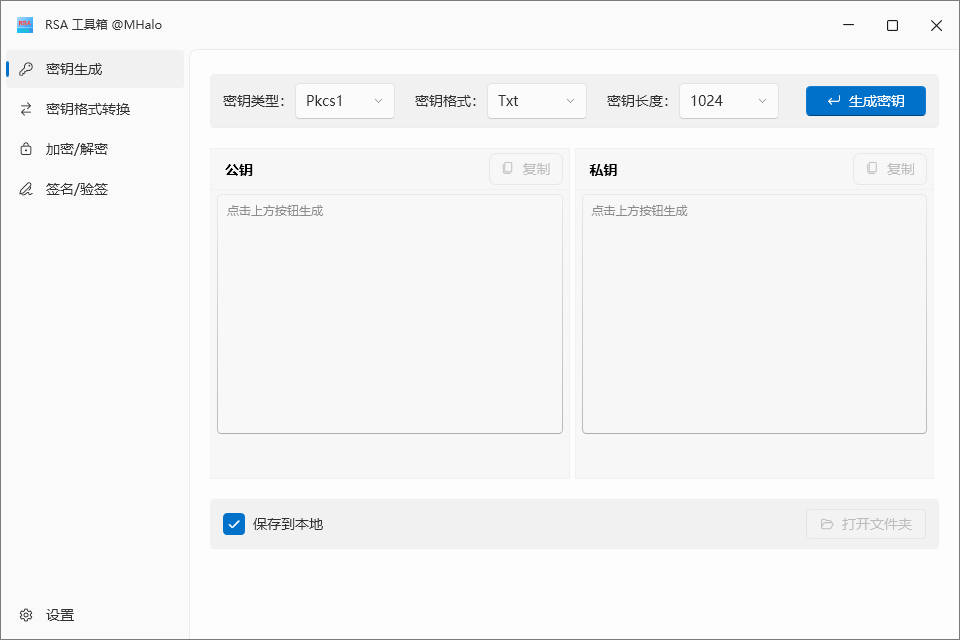
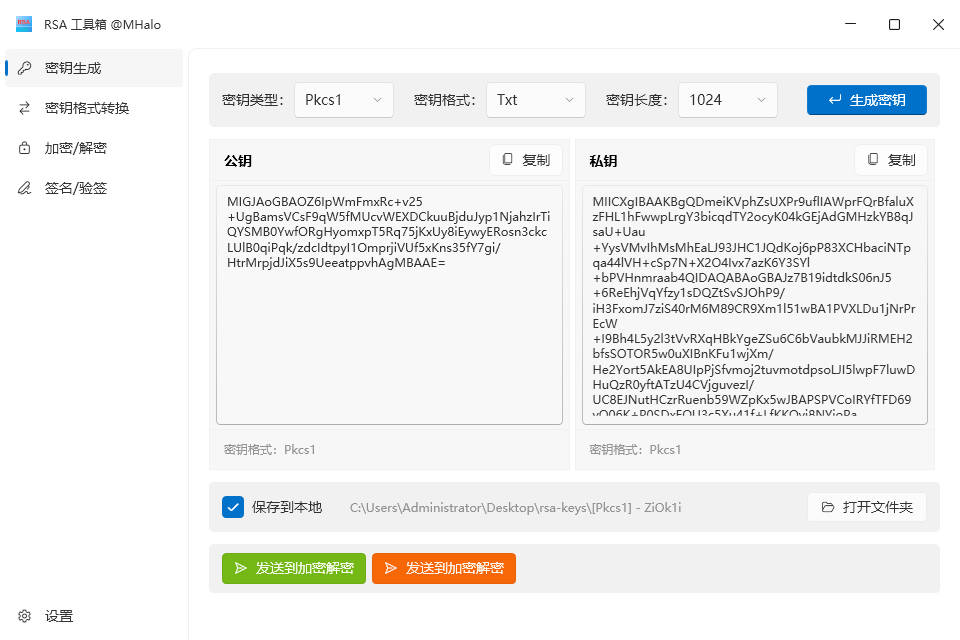
RSA密钥生成界面功能更新
增加将密钥 发送到加/解密、签名/验签页面的按钮

diff --git a/Views/Pages/RsaKeyGeneratePage.xaml b/Views/Pages/RsaKeyGeneratePage.xaml
@@ -8,7 +8,7 @@
     xmlns:ui="http://schemas.lepo.co/wpfui/2022/xaml"
     Title="RsaKeyGeneratePage"
     d:DataContext="{d:DesignInstance local:RsaKeyGeneratePage, IsDesignTimeCreatable=False}"
-    d:DesignHeight="450"
+    d:DesignHeight="600"
     d:DesignWidth="800"
     mc:Ignorable="d">
 
@@ -17,10 +17,11 @@
             <RowDefinition Height="Auto"></RowDefinition>
             <RowDefinition Height="Auto"></RowDefinition>
             <RowDefinition Height="Auto"></RowDefinition>
+            <RowDefinition Height="Auto"></RowDefinition>
         </Grid.RowDefinitions>
         
         <!--顶部工具栏-->
-        <ui:Card Grid.Row="0" Background="#FFF1F1F1" Padding="12,8,12,8" Margin="0,0,0,20">
+        <ui:Card Grid.Row="0" Background="#FFF1F1F1" Padding="12,8,12,8" Margin="0,0,0,12">
             <Grid>
                 <Grid.ColumnDefinitions>
                     <ColumnDefinition Width="72"></ColumnDefinition>
@@ -52,7 +53,7 @@
             </Grid>
         </ui:Card>
         <!--密钥生成区域-->        
-        <Grid Grid.Row="1" Margin="0,0,0,20">
+        <Grid Grid.Row="1" Margin="0,0,0,12">
             <Grid.ColumnDefinitions>
                 <ColumnDefinition Width="50*"></ColumnDefinition>
                 <ColumnDefinition Width="50*"></ColumnDefinition>
@@ -120,7 +121,7 @@
             </Border>
         </Grid>
         <!--底部工具栏-->
-        <ui:Card Grid.Row="2" Background="#FFF1F1F1" Padding="12,8,12,8" Margin="0,0,0,20">
+        <ui:Card Grid.Row="2" Background="#FFF1F1F1" Padding="12,8,12,8" Margin="0,0,0,12">
             <Grid>
                 <Grid.ColumnDefinitions>
                     <ColumnDefinition Width="120"></ColumnDefinition>
@@ -132,6 +133,16 @@
                     <TextBlock Text="{Binding ViewModel.RsaLocalFolder}" TextWrapping="WrapWithOverflow" FontSize="12" Foreground="#FF929292"/>
                 </ui:HyperlinkButton>
                 <ui:Button Grid.Column="2" Width="120" Content="打开文件夹" Icon="{ui:SymbolIcon FolderOpen24}" HorizontalAlignment="Right"   Click="OpenRSAFolder_Click" IsEnabled="{Binding ViewModel.CanOpenRSAFolder}" />
+            </Grid>
+        </ui:Card>
+        <ui:Card Grid.Row="3"  Background="#FFF1F1F1" Padding="12,8,12,8" Margin="0,0,0,12">
+            <Grid>
+                <Grid.ColumnDefinitions>
+                    <ColumnDefinition Width="150"></ColumnDefinition>
+                    <ColumnDefinition Width="150"></ColumnDefinition>
+                </Grid.ColumnDefinitions>
+                <ui:Button Grid.Column="0" Background="#74b816" MouseOverBackground="#82c91e" PressedBackground="#5c940d" Content="发送到加密解密" Icon="{ui:SymbolIcon Send24}" Foreground="#E4FFFFFF" Click="SendToCrypt_Click" IsEnabled="{Binding Path=ViewModel.IsGenerateKeyValid, Mode=OneWay}" />
+                <ui:Button Grid.Column="1" Background="#f76707" MouseOverBackground="#fd7e14" PressedBackground="#d9480f" Content="发送到加密解密" Icon="{ui:SymbolIcon Send24}" Foreground="#E4FFFFFF" Click="SendToSign_Click" IsEnabled="{Binding Path=ViewModel.IsGenerateKeyValid, Mode=OneWay}" />
             </Grid>
         </ui:Card>
     </Grid>

diff --git a/Views/Pages/RsaTransKeyFormatPage.xaml b/Views/Pages/RsaTransKeyFormatPage.xaml
@@ -84,13 +84,13 @@
         <!--顶部工具栏-->
         <Grid Grid.Row="1" Margin="0,10,0,0">
             <Grid.ColumnDefinitions>
-                <ColumnDefinition Width="120"></ColumnDefinition>
+                <ColumnDefinition Width="100"></ColumnDefinition>
                 <ColumnDefinition Width="120"></ColumnDefinition>
                 <ColumnDefinition Width="72"></ColumnDefinition>
                 <ColumnDefinition Width="120"></ColumnDefinition>
                 <ColumnDefinition Width="*"></ColumnDefinition>
             </Grid.ColumnDefinitions>
-            <TextBlock Grid.Column="0" Text="目标密钥类型：" VerticalAlignment="Center" Width="72" HorizontalAlignment="Left" />
+            <TextBlock Grid.Column="0" Text="目标密钥类型：" VerticalAlignment="Center" Width="88" HorizontalAlignment="Left" />
             <ComboBox Grid.Column="1" MinWidth="100" SelectedIndex="{Binding ViewModel.TargetRsaKeyTypeSelectedIndex, Mode = TwoWay}"  HorizontalAlignment="Left" SelectionChanged="RsaKeyType_SelectionChanged">
                 <ComboBoxItem Content="Pkcs1" IsSelected="True" />
                 <ComboBoxItem Content="Pkcs8" />

diff --git a/Views/Pages/RsaKeyGeneratePage.xaml.cs b/Views/Pages/RsaKeyGeneratePage.xaml.cs
@@ -1,9 +1,11 @@
-using MHalo.CoreFx.RsaToolBox.ViewModels.Pages;
+using MHalo.CoreFx.RsaToolBox.Services;
+using MHalo.CoreFx.RsaToolBox.ViewModels.Pages;
 using System;
 using System.ComponentModel.DataAnnotations;
 using System.Security.Cryptography.X509Certificates;
 using System.Windows.Controls;
 using System.Windows.Media;
+using System.Windows.Navigation;
 using Wpf.Ui;
 using Wpf.Ui.Controls;
 using Wpf.Ui.Extensions;
@@ -15,14 +17,20 @@ namespace MHalo.CoreFx.RsaToolBox.Views.Pages
     {
         public RsaKeyGenerateViewModel ViewModel { get; }
         public ISnackbarService snackbarService;
+        public INavigationService navigationService;
+        public IPageService pageService;
         public RsaKeyGeneratePage(
             RsaKeyGenerateViewModel viewModel,
-            ISnackbarService _snackbarService
+            ISnackbarService _snackbarService,
+            IPageService _pageService,
+            INavigationService _navigationService
             )
         {
             ViewModel = viewModel;
             DataContext = this;
+            pageService = _pageService;
             snackbarService = _snackbarService;
+            navigationService = _navigationService;
 
             InitializeComponent();
         }
@@ -96,6 +104,30 @@ namespace MHalo.CoreFx.RsaToolBox.Views.Pages
         {
             PrivateKeyBox.SelectAll();
             e.Handled = true;
+        }
+
+        private void SendToCrypt_Click(object sender, RoutedEventArgs e)
+        {
+            var cryptPage = pageService.GetPage<RsaCryptPage>();
+            if(cryptPage == null)
+            {
+                return;
+            }
+            cryptPage.ViewModel.PublickKey = ViewModel.RSAKey.PublicKey;
+            cryptPage.ViewModel.PrivateKey = ViewModel.RSAKey.PrivateKey;
+            navigationService.Navigate(typeof(RsaCryptPage));
+        }
+
+        private void SendToSign_Click(object sender, RoutedEventArgs e)
+        {
+            var signPage = pageService.GetPage<RsaSignPage>();
+            if (signPage == null)
+            {
+                return;
+            }
+            signPage.ViewModel.PublickKey = ViewModel.RSAKey.PublicKey;
+            signPage.ViewModel.PrivateKey = ViewModel.RSAKey.PrivateKey;
+            navigationService.Navigate(typeof(RsaSignPage));
         }
     }
 }

diff --git a/ViewModels/Pages/RsaSignViewModel.cs b/ViewModels/Pages/RsaSignViewModel.cs
@@ -13,7 +13,7 @@ namespace MHalo.CoreFx.RsaToolBox.ViewModels.Pages
         private RSAKeyType? _privateKeyType;
 
         [ObservableProperty]
-        private int _algorithmSelectedIndex;
+        private int _algorithmSelectedIndex = 1;
 
 
         [ObservableProperty]
